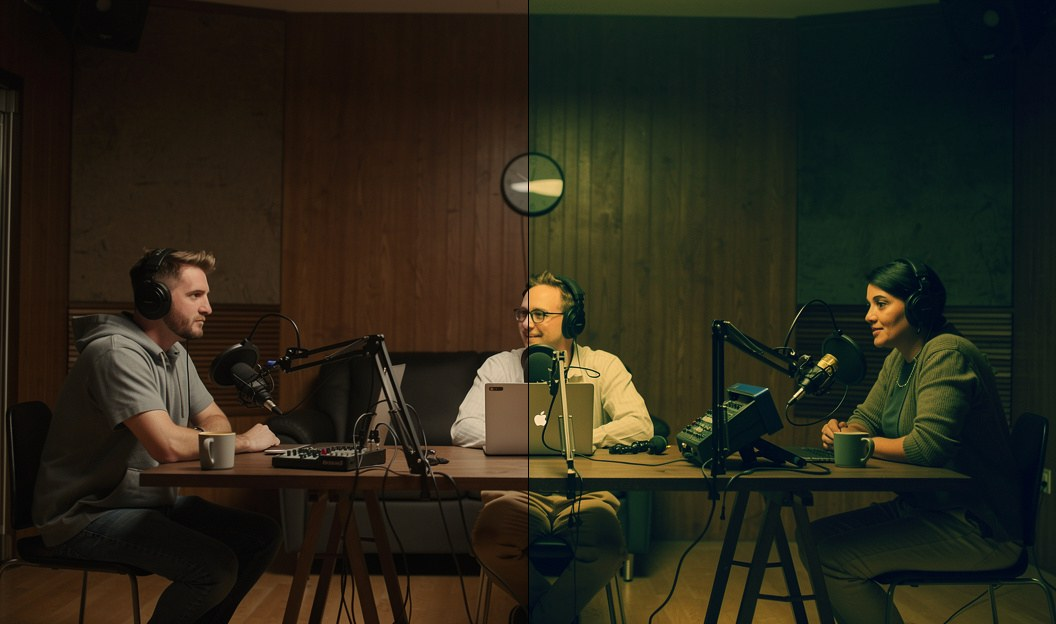
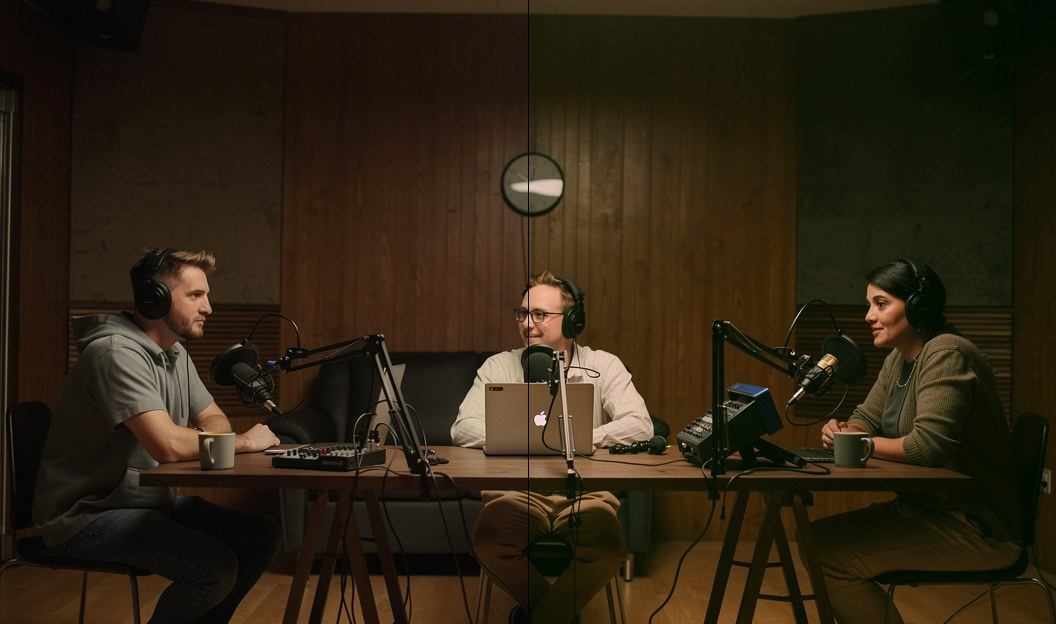
film-lab 1.1.0: richer grades, three new looks, refreshed demos
Port the stronger grade math into the overlapping looks (Teal & Orange,
Bleach Bypass, Cross Process, Cool Noir get a shared filmic S-curve with
masked split-tones; Halation becomes a neutral linear-light glow with
Reinhard de/re-tonemapping) and add Duotone, Vibrance and a one-tap
Cinematic (grade, vignette and letterbox in a single pass).

All thirteen demo splits re-rendered from the updated GLSL at manifest
defaults; screenshots lead with Cinematic, Teal & Orange and Duotone.

diff --git a/plugins/film-lab/src/shaders.ts b/plugins/film-lab/src/shaders.ts
@@ -30,31 +30,38 @@ const LUMA = `
 float luma(vec3 c) { return dot(c, vec3(0.2126, 0.7152, 0.0722)); }
 `
 
-export const TEAL_ORANGE_FS = `${HEAD}${LUMA}
+/** Gentle filmic S-curve, shared by several looks. k around 0.5 is subtle,
+ *  above 1.0 is punchy; it pivots on middle grey so exposure holds. */
+const SCURVE = `
+vec3 scurve(vec3 x, float k) { return clamp(x + k * (x - 0.5) * x * (1.0 - x), 0.0, 1.0); }
+`
+
+export const TEAL_ORANGE_FS = `${HEAD}${LUMA}${SCURVE}
 uniform float uAmount;
 uniform float uSplit;
 void main() {
   vec4 src = texture(uTex, vUV);
   float l = luma(src.rgb);
-  // Shadows lean teal, highlights lean orange; uSplit is the luminance at which
-  // one hands off to the other, which is what moves the look across skin tones.
-  float t = smoothstep(uSplit - 0.25, uSplit + 0.25, l);
-  vec3 tint = mix(vec3(0.0, 0.55, 0.65), vec3(1.0, 0.62, 0.25), t);
-  // Centred on 0.5 so the split-tone shifts hue without lifting exposure.
-  vec3 graded = src.rgb + (tint - 0.5) * 0.35;
+  // S-curve first, then a teal push masked to shadows and an orange push
+  // masked to highlights, then a saturation lift. uSplit slides both masks so
+  // the handoff can chase skin tones instead of cutting through them.
+  float shadows = clamp(1.0 - l * (1.1 / uSplit), 0.0, 1.0);
+  float highs = clamp(2.0 * l - 2.8 * uSplit + 0.7, 0.0, 1.0);
+  vec3 graded = scurve(src.rgb, 0.6);
+  graded += shadows * vec3(-0.04, 0.02, 0.06) + highs * vec3(0.06, 0.02, -0.05);
+  graded = mix(vec3(luma(graded)), graded, 1.18);
   fragColor = vec4(clamp(mix(src.rgb, graded, uAmount), 0.0, 1.0), src.a);
 }`
 
-export const BLEACH_BYPASS_FS = `${HEAD}${LUMA}
+export const BLEACH_BYPASS_FS = `${HEAD}${LUMA}${SCURVE}
 uniform float uAmount;
 uniform float uContrast;
 void main() {
   vec4 src = texture(uTex, vUV);
-  vec3 gray = vec3(luma(src.rgb));
-  // Silver retention prints the black-and-white record back over the colour one
-  // in hard light, which is why the look blows highlights and blocks shadows.
-  vec3 hard = mix(2.0 * src.rgb * gray, 1.0 - 2.0 * (1.0 - src.rgb) * (1.0 - gray), step(0.5, gray.r));
-  vec3 graded = (hard - 0.5) * uContrast + 0.5;
+  // Silver retention drains most of the colour and hardens the tone curve;
+  // the small lift at the end keeps the look gritty rather than muddy.
+  vec3 drained = mix(vec3(luma(src.rgb)), src.rgb, 0.35);
+  vec3 graded = scurve(drained, uContrast * 0.7) * 1.04;
   fragColor = vec4(clamp(mix(src.rgb, graded, uAmount), 0.0, 1.0), src.a);
 }`
 
@@ -66,6 +73,12 @@ const vec2 kTaps[8] = vec2[8](
   vec2( 1.000,  0.000), vec2(-1.000,  0.000), vec2( 0.000,  1.000), vec2( 0.000, -1.000),
   vec2( 0.707,  0.707), vec2(-0.707,  0.707), vec2( 0.707, -0.707), vec2(-0.707, -0.707)
 );
+// Expand highlights the way Reinhard compressed them, so near-clipped pixels
+// carry real energy into the halo instead of flat 1.0s.
+vec3 detone(vec3 c) {
+  vec3 lin = pow(c, vec3(2.2));
+  return lin / (1.0 - 0.6 * min(lin, vec3(0.9)));
+}
 void main() {
   vec4 src = texture(uTex, vUV);
   // Radius is a percentage of the frame, not pixels: there is no resolution
@@ -73,13 +86,17 @@ void main() {
   float r = uRadius * 0.01;
   vec3 bloom = vec3(0.0);
   for (int i = 0; i < 8; i++) {
-    // Only what is already near clipping feeds the halo, so midtones stay sharp.
-    bloom += max(texture(uTex, vUV + kTaps[i] * r).rgb - uThreshold, 0.0);
+    // Two rings stand in for a wide gaussian: a tight bright core and a
+    // faint wide skirt. Only near-clipped light feeds either.
+    bloom += max(detone(texture(uTex, vUV + kTaps[i] * r).rgb) - uThreshold, 0.0) * 0.62;
+    bloom += max(detone(texture(uTex, vUV + kTaps[i] * r * 2.2).rgb) - uThreshold, 0.0) * 0.38;
   }
-  // The red layer sits deepest in the emulsion and scatters most, so real
-  // halation reads warm rather than as a neutral bloom.
-  bloom = bloom / 8.0 * vec3(1.0, 0.55, 0.35) * 3.0;
-  fragColor = vec4(clamp(src.rgb + bloom * uAmount, 0.0, 1.0), src.a);
+  bloom /= 8.0;
+  // Neutral glow in linear light, tone-mapped back: it reads as an expensive
+  // lens rather than as an effect layer.
+  vec3 outLin = pow(src.rgb, vec3(2.2)) + bloom * uAmount * 1.6;
+  vec3 mapped = pow(max(outLin / (1.0 + 0.12 * outLin), 0.0), vec3(1.0 / 2.2));
+  fragColor = vec4(clamp(mapped, 0.0, 1.0), src.a);
 }`
 
 export const VHS_WEAR_FS = `${HEAD}
@@ -135,21 +152,20 @@ void main() {
   fragColor = vec4(clamp(src.rgb + n * uAmount * 4.0 * l * (1.0 - l), 0.0, 1.0), src.a);
 }`
 
-export const CROSS_PROCESS_FS = `${HEAD}${LUMA}
+export const CROSS_PROCESS_FS = `${HEAD}${LUMA}${SCURVE}
 uniform float uAmount;
 uniform float uSaturation;
 void main() {
   vec4 src = texture(uTex, vUV);
-  vec3 c = clamp(src.rgb, 0.0, 1.0);
-  // Running slide film through print chemistry bends each channel differently:
-  // reds snap, greens soften, and blue never reaches the floor.
-  vec3 curved = vec3(
-    smoothstep(0.05, 0.95, c.r),
-    pow(c.g, 0.85),
-    mix(0.12, 0.92, c.b * c.b)
-  );
-  curved = mix(vec3(luma(curved)), curved, uSaturation);
-  fragColor = vec4(clamp(mix(src.rgb, curved, uAmount), 0.0, 1.0), src.a);
+  float l = luma(src.rgb);
+  // Print chemistry pushes the record apart by tone: shadows drift green,
+  // highlights drift toward pink and cyan, and the curve snaps in between.
+  float shadows = clamp(1.0 - 2.2 * l, 0.0, 1.0);
+  float highs = clamp(2.0 * l - 0.7, 0.0, 1.0);
+  vec3 c = src.rgb + shadows * vec3(-0.02, 0.05, -0.02) + highs * vec3(0.05, -0.01, 0.06);
+  c = scurve(c, 0.5);
+  c = mix(vec3(luma(c)), c, uSaturation * 0.9);
+  fragColor = vec4(clamp(mix(src.rgb, c, uAmount), 0.0, 1.0), src.a);
 }`
 
 export const FADED_MATTE_FS = `${HEAD}${LUMA}
@@ -165,15 +181,16 @@ void main() {
   fragColor = vec4(clamp(mix(src.rgb, faded, uAmount), 0.0, 1.0), src.a);
 }`
 
-export const COOL_NOIR_FS = `${HEAD}${LUMA}
+export const COOL_NOIR_FS = `${HEAD}${LUMA}${SCURVE}
 uniform float uAmount;
 uniform float uContrast;
 void main() {
   vec4 src = texture(uTex, vUV);
-  // Not a flat greyscale: printing the luma back with a steel cast keeps skin
-  // separated from the background instead of merging into it.
-  vec3 noir = vec3(luma(src.rgb)) * vec3(0.88, 0.95, 1.12);
-  noir = (noir - 0.5) * uContrast + 0.5;
+  // Neutral silver print with a hard S-curve and a slight lift, then the
+  // vignette that noir cinematography never actually shipped without.
+  vec3 noir = scurve(vec3(luma(src.rgb)), uContrast * 0.65) * 1.06;
+  float ring = length((vUV - 0.5) * vec2(2.1, 2.0));
+  noir *= 1.0 - 0.35 * pow(clamp(ring - 0.45, 0.0, 1.0), 1.5);
   fragColor = vec4(clamp(mix(src.rgb, noir, uAmount), 0.0, 1.0), src.a);
 }`
 
@@ -190,4 +207,66 @@ void main() {
   // A little highlight haze stands in for sun flaring through the lens.
   warm += vec3(1.0, 0.85, 0.6) * max(l - 0.75, 0.0) * uGlow;
   fragColor = vec4(clamp(mix(src.rgb, warm, uAmount), 0.0, 1.0), src.a);
+}`
+
+export const DUOTONE_FS = `${HEAD}${LUMA}
+uniform float uAmount;
+uniform float uHue;
+uniform float uSplit;
+// Compact HSV to RGB; hue is the only thing that varies at runtime.
+vec3 hsv2rgb(vec3 c) {
+  vec3 p = abs(fract(c.xxx + vec3(1.0, 2.0 / 3.0, 1.0 / 3.0)) * 6.0 - 3.0);
+  return c.z * mix(vec3(1.0), clamp(p - 1.0, 0.0, 1.0), c.y);
+}
+void main() {
+  vec4 src = texture(uTex, vUV);
+  float l = luma(src.rgb);
+  // Two inks, like a screen print: a deep tone at uHue and a paper tone at
+  // its complement. The split is the luminance where one ink hands the frame
+  // to the other, which is what keeps faces readable instead of silhouetted.
+  vec3 ink = hsv2rgb(vec3(uHue, 0.55, 0.22));
+  vec3 paper = hsv2rgb(vec3(fract(uHue + 0.5), 0.18, 0.96));
+  vec3 duo = mix(ink, paper, smoothstep(uSplit - 0.5, uSplit + 0.5, l));
+  fragColor = vec4(clamp(mix(src.rgb, duo, uAmount), 0.0, 1.0), src.a);
+}`
+
+export const CINEMATIC_FS = `${HEAD}${LUMA}${SCURVE}
+uniform float uAmount;
+uniform float uBars;
+uniform float uVignette;
+void main() {
+  vec4 src = texture(uTex, vUV);
+  float l = luma(src.rgb);
+  // The one-tap version of a graded master: the Teal and Orange grade, a
+  // corner falloff and letterbox bars in a single pass. Stack Film Grain over
+  // it when the frame should read as print rather than sensor.
+  float shadows = clamp(1.0 - 2.2 * l, 0.0, 1.0);
+  float highs = clamp(2.0 * l - 0.7, 0.0, 1.0);
+  vec3 graded = scurve(src.rgb, 0.6);
+  graded += shadows * vec3(-0.04, 0.02, 0.06) + highs * vec3(0.06, 0.02, -0.05);
+  graded = mix(vec3(luma(graded)), graded, 1.18);
+  float ring = length((vUV - 0.5) * vec2(2.1, 2.0));
+  graded *= 1.0 - uVignette * pow(clamp(ring - 0.45, 0.0, 1.0), 1.5);
+  vec3 outc = clamp(mix(src.rgb, graded, uAmount), 0.0, 1.0);
+  // Bars sit outside the Amount blend: they are geometry, not grade. Height
+  // is a fraction of the frame, the same convention the other looks use for
+  // size in the absence of a resolution uniform.
+  if (vUV.y < uBars || vUV.y > 1.0 - uBars) outc = vec3(0.0);
+  fragColor = vec4(outc, src.a);
+}`
+
+export const VIBRANCE_FS = `${HEAD}${LUMA}${SCURVE}
+uniform float uAmount;
+uniform float uVibrance;
+uniform float uContrast;
+void main() {
+  vec4 src = texture(uTex, vUV);
+  vec3 c = src.rgb;
+  // Vibrance, not saturation: the push scales inversely with how saturated a
+  // pixel already is, so dull walls wake up while skin stays skin.
+  float satNow = max(max(c.r, c.g), c.b) - min(min(c.r, c.g), c.b);
+  vec3 gray = vec3(luma(c));
+  vec3 vivid = mix(gray, c, 1.0 + uVibrance * (1.0 - clamp(satNow * 4.0, 0.0, 1.0)));
+  vivid = scurve(vivid, uContrast);
+  fragColor = vec4(clamp(mix(src.rgb, vivid, uAmount), 0.0, 1.0), src.a);
 }`

diff --git a/plugins/film-lab/src/manifest.ts b/plugins/film-lab/src/manifest.ts
@@ -1,41 +1,45 @@
 import { defineManifest } from '@corte/plugin-types'
 import {
   BLEACH_BYPASS_FS,
+  CINEMATIC_FS,
   COOL_NOIR_FS,
   CROSS_PROCESS_FS,
   DAY_FOR_NIGHT_FS,
+  DUOTONE_FS,
   FADED_MATTE_FS,
   GOLDEN_HOUR_FS,
   GRAIN_FS,
   HALATION_FS,
   TEAL_ORANGE_FS,
   VHS_WEAR_FS,
+  VIBRANCE_FS,
 } from './shaders.ts'
 
 export const manifest = defineManifest({
   version: 1,
   id: 'so.corte.filmlab',
   name: 'Film Lab',
-  pluginVersion: '1.0.3',
+  pluginVersion: '1.1.0',
   description:
-    'Ten cinematic looks as real-time shader effects: teal & orange, bleach bypass, halation, VHS wear, day-for-night, film grain, cross-process, faded matte, cool noir and golden hour. Each has one to three sliders and blends back to your original, so the defaults are a starting point rather than a maximum.',
-  about: `Film Lab is a grade shelf. Ten looks pulled from the way film actually behaves — silver retention, halation off the red layer, the midtone bell of emulsion grain — built as single-pass shaders that run live on the timeline.
+    'Thirteen cinematic looks as real-time shader effects: teal & orange, bleach bypass, halation glow, VHS wear, day-for-night, film grain, cross-process, faded matte, cool noir, golden hour, duotone, vibrance and a one-tap cinematic. Each has one to three sliders and blends back to your original, so the defaults are a starting point rather than a maximum.',
+  about: `Film Lab is a grade shelf. Thirteen looks pulled from the way film actually behaves — silver retention, halation off the red layer, the midtone bell of emulsion grain — built as single-pass shaders that run live on the timeline.
 
 Every look has an Amount slider that mixes it back toward your source, plus one or two knobs that matter for that specific look: where teal hands off to orange, how far tape smears chroma, how big the grain clumps are. Nothing is baked in; drop an effect on a clip, drag, and keyframe it like any built-in.
 
-Looks stack. Golden Hour under Halation gives you a warm flare; Faded Matte under Film Grain gives you a scanned print. They render in the preview and the export the same way, and export stays free and watermark-free as always.
+Looks stack. Golden Hour under Halation gives you a warm flare; Faded Matte under Film Grain gives you a scanned print. Cinematic is the one-tap route — the Teal & Orange grade, a corner vignette and letterbox bars in a single pass; stack Film Grain over it for the full print finish. They render in the preview and the export the same way, and export stays free and watermark-free as always.
 
 A note on grain: Corte binds no time uniform to plugin shaders, so Film Lab's grain is frame-stable rather than crawling. That is the right call for a print look and the wrong one for TV static — it is a deliberate limit, not an oversight.`,
   iconUrl: 'https://raw.githubusercontent.com/eli-made/corte-plugins-marketplace/main/plugins/film-lab/assets/icon.png',
   screenshots: [
     // before/after splits rendered with these exact shaders at manifest defaults
+    'https://raw.githubusercontent.com/eli-made/corte-plugins-marketplace/main/plugins/film-lab/assets/demo/cinematic.jpg',
     'https://raw.githubusercontent.com/eli-made/corte-plugins-marketplace/main/plugins/film-lab/assets/demo/teal-orange.jpg',
+    'https://raw.githubusercontent.com/eli-made/corte-plugins-marketplace/main/plugins/film-lab/assets/demo/duotone.jpg',
     'https://raw.githubusercontent.com/eli-made/corte-plugins-marketplace/main/plugins/film-lab/assets/demo/day-for-night.jpg',
     'https://raw.githubusercontent.com/eli-made/corte-plugins-marketplace/main/plugins/film-lab/assets/demo/golden-hour.jpg',
     'https://raw.githubusercontent.com/eli-made/corte-plugins-marketplace/main/plugins/film-lab/assets/demo/cool-noir.jpg',
     'https://raw.githubusercontent.com/eli-made/corte-plugins-marketplace/main/plugins/film-lab/assets/shelf.png',
     'https://raw.githubusercontent.com/eli-made/corte-plugins-marketplace/main/plugins/film-lab/assets/teal-orange.png',
-    'https://raw.githubusercontent.com/eli-made/corte-plugins-marketplace/main/plugins/film-lab/assets/halation.png',
   ],
   tags: ['color', 'grading', 'film', 'looks', 'shaders', 'retro'],
   contributions: {
@@ -45,7 +49,7 @@ A note on grain: Corte binds no time uniform to plugin shaders, so Film Lab's gr
         displayName: 'Teal & Orange',
         category: 'color',
         params: [
-          { key: 'amount', label: 'Amount', min: 0, max: 1, default: 0.6 },
+          { key: 'amount', label: 'Amount', min: 0, max: 1, default: 0.75 },
           { key: 'split', label: 'Split Point', min: 0.25, max: 0.75, default: 0.5 },
         ],
         fragmentShader: TEAL_ORANGE_FS,
@@ -67,7 +71,7 @@ A note on grain: Corte binds no time uniform to plugin shaders, so Film Lab's gr
         displayName: 'Halation Glow',
         category: 'stylize',
         params: [
-          { key: 'amount', label: 'Amount', min: 0, max: 1, default: 0.5 },
+          { key: 'amount', label: 'Amount', min: 0, max: 1, default: 0.6 },
           { key: 'threshold', label: 'Threshold', min: 0, max: 1, default: 0.7 },
           { key: 'radius', label: 'Radius', min: 0.1, max: 2, default: 0.6, unit: '%' },
         ],
@@ -113,7 +117,7 @@ A note on grain: Corte binds no time uniform to plugin shaders, so Film Lab's gr
         displayName: 'Cross Process',
         category: 'color',
         params: [
-          { key: 'amount', label: 'Amount', min: 0, max: 1, default: 0.6 },
+          { key: 'amount', label: 'Amount', min: 0, max: 1, default: 0.7 },
           { key: 'saturation', label: 'Saturation', min: 0, max: 2, default: 1.25 },
         ],
         fragmentShader: CROSS_PROCESS_FS,
@@ -136,7 +140,7 @@ A note on grain: Corte binds no time uniform to plugin shaders, so Film Lab's gr
         displayName: 'Cool Noir',
         category: 'color',
         params: [
-          { key: 'amount', label: 'Amount', min: 0, max: 1, default: 0.8 },
+          { key: 'amount', label: 'Amount', min: 0, max: 1, default: 0.85 },
           { key: 'contrast', label: 'Contrast', min: 0.5, max: 2.5, default: 1.35 },
         ],
         fragmentShader: COOL_NOIR_FS,
@@ -153,6 +157,42 @@ A note on grain: Corte binds no time uniform to plugin shaders, so Film Lab's gr
         ],
         fragmentShader: GOLDEN_HOUR_FS,
         uniforms: { uAmount: 'amount', uWarmth: 'warmth', uGlow: 'glow' },
+      },
+      {
+        type: 'so.corte.filmlab.duotone',
+        displayName: 'Duotone',
+        category: 'color',
+        params: [
+          { key: 'amount', label: 'Amount', min: 0, max: 1, default: 0.85 },
+          { key: 'hue', label: 'Ink Hue', min: 0, max: 1, default: 0.62 },
+          { key: 'split', label: 'Split Point', min: 0.25, max: 0.75, default: 0.5 },
+        ],
+        fragmentShader: DUOTONE_FS,
+        uniforms: { uAmount: 'amount', uHue: 'hue', uSplit: 'split' },
+      },
+      {
+        type: 'so.corte.filmlab.cinematic',
+        displayName: 'Cinematic',
+        category: 'stylize',
+        params: [
+          { key: 'amount', label: 'Amount', min: 0, max: 1, default: 0.7 },
+          { key: 'bars', label: 'Bars', min: 0, max: 0.15, default: 0.11 },
+          { key: 'vignette', label: 'Vignette', min: 0, max: 1, default: 0.45 },
+        ],
+        fragmentShader: CINEMATIC_FS,
+        uniforms: { uAmount: 'amount', uBars: 'bars', uVignette: 'vignette' },
+      },
+      {
+        type: 'so.corte.filmlab.vibrance',
+        displayName: 'Vibrance',
+        category: 'color',
+        params: [
+          { key: 'amount', label: 'Amount', min: 0, max: 1, default: 0.8 },
+          { key: 'vibrance', label: 'Vibrance', min: 0, max: 1.5, default: 0.55 },
+          { key: 'contrast', label: 'Contrast', min: 0, max: 1.5, default: 0.5 },
+        ],
+        fragmentShader: VIBRANCE_FS,
+        uniforms: { uAmount: 'amount', uVibrance: 'vibrance', uContrast: 'contrast' },
       },
     ],
   },

diff --git a/plugins/film-lab/src/shaders.test.ts b/plugins/film-lab/src/shaders.test.ts
@@ -10,8 +10,8 @@ import { manifest } from './manifest.ts'
 const effects = manifest.contributions.effects ?? []
 
 describe('Film Lab shaders', () => {
-  it('ships ten looks', () => {
-    expect(effects).toHaveLength(10)
+  it('ships thirteen looks', () => {
+    expect(effects).toHaveLength(13)
   })
 
   it.each(effects.map((e) => [e.type, e] as const))('%s honours the host shader contract', (_type, effect) => {

diff --git a/plugins/film-lab/README.md b/plugins/film-lab/README.md
@@ -1,16 +1,18 @@
 # Film Lab
 
-Ten cinematic looks as real-time shader effects — teal & orange, bleach bypass,
-halation glow, VHS wear, day-for-night, film grain, cross-process, faded matte,
-cool noir, golden hour. Each has an Amount slider that blends back to your
-source, so the defaults are a starting point rather than a maximum.
+Thirteen cinematic looks as real-time shader effects — teal & orange, bleach
+bypass, halation glow, VHS wear, day-for-night, film grain, cross-process,
+faded matte, cool noir, golden hour, duotone, vibrance and a one-tap cinematic
+(grade, vignette and letterbox in a single pass). Each has an Amount slider
+that blends back to your source, so the defaults are a starting point rather
+than a maximum.
 
 **Try it:** drop **Golden Hour** on a clip, then stack **Halation Glow** over it
 and raise Threshold until only the practicals flare.
 
 | | |
 | --- | --- |
-| Contributions | 10 shader effects (`so.corte.filmlab.*`) |
+| Contributions | 13 shader effects (`so.corte.filmlab.*`) |
 | Permissions | None — data-only, no code runs |
 | Price | Free |
 

diff --git a/README.md b/README.md
@@ -14,7 +14,7 @@ making.
 | Plugin | What it adds | Ships code? | Permissions |
 | --- | --- | --- | --- |
 | [`preflight-checker`](plugins/preflight-checker) | Timeline audit before export (gaps, flash frames, silence, duration limits) | agent tool | `read:timeline`, `notify` |
-| [`film-lab`](plugins/film-lab) | 10 cinematic shader effects (teal & orange, halation, VHS, …) | no — pure data | none |
+| [`film-lab`](plugins/film-lab) | 13 cinematic shader effects (teal & orange, one-tap cinematic, duotone, …) | no — pure data | none |
 | [`grade-sync`](plugins/grade-sync) | One-click consistent grade across clips, 5 moods | agent tool | `read:timeline`, `write:effects`, `notify` |
 | [`hook-factory`](plugins/hook-factory) | 8 social-hook opener templates + insert-hook tool | agent tool + templates | `write:clips`, `notify` |
 | [`audiogram-kit`](plugins/audiogram-kit) | Podcast quote/audiogram templates + music beds | no — pure data | none |
